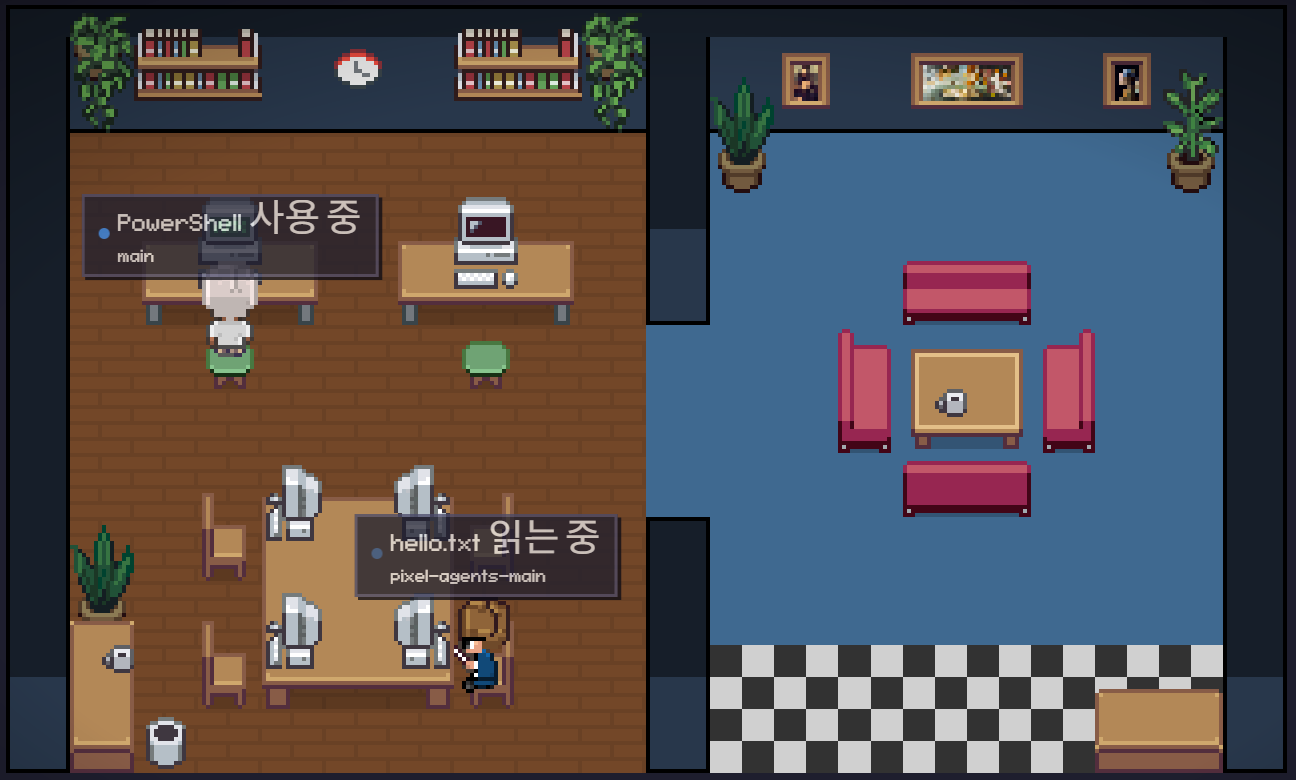
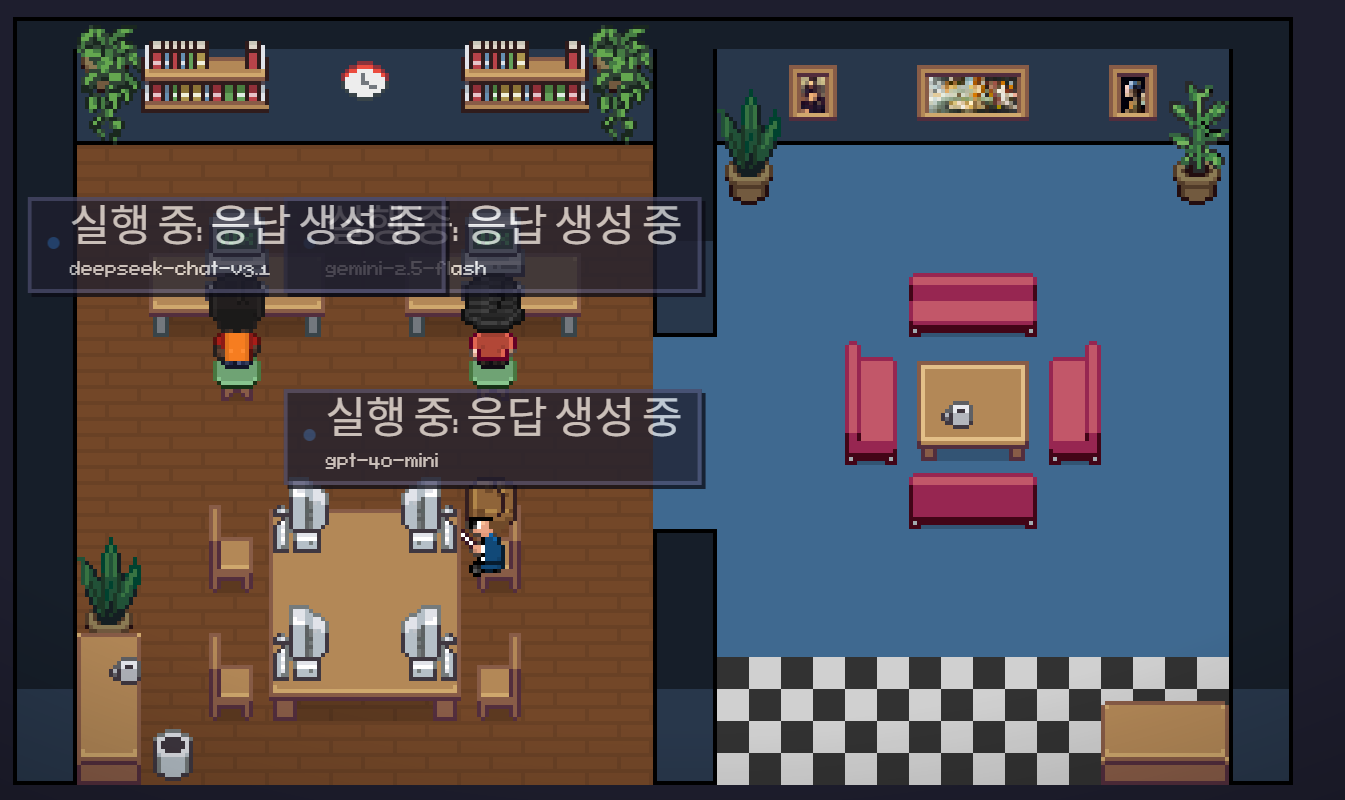
캐릭터에 연결된 모델명 표시 + 실행 화면 캡처 + README 재작성
- run.mjs: 각 모델이 모델명 폴더에서 작업하도록 해 캐릭터 이름이 연결 모델명으로 표시되게 함
- '추론 중' 라벨에 모델명을 끼워넣던 표기 제거(모델명은 캐릭터 이름으로만 정직하게 표시)
- README: 'pixel-agents-openrouter란' 중심으로 재구성, 작업 내역/동작 원리 충실화
- docs/screenshot.png: 세 모델(gpt-4o-mini/gemini-2.5-flash/deepseek-chat-v3.1) 동작 캡처

diff --git a/README.md b/README.md
@@ -1,38 +1,78 @@
-# Pixel Agents — OpenRouter 멀티모델 확장
+# pixel-agents-openrouter
 
-바닐라 **Pixel Agents**는 AI 코딩 에이전트(Claude Code)를 픽셀아트 사무실의 애니메이션 캐릭터로
-보여주는 시각화 도구입니다. 이 포크는 여기에 **OpenRouter의 여러 모델(GPT · Gemini · DeepSeek 등)을
-실제 도구를 사용하는 에이전트로 실행해 오피스에 시각화**하는 기능과 **한국어 라벨**을 더했습니다.
-Pixel Agents 코어/서버 소스는 한 줄도 고치지 않았습니다.
+**OpenRouter의 여러 모델(GPT · Gemini · DeepSeek 등)을 각각 "실제 도구를 사용하는 에이전트"로 실행하고,
+그 활동을 픽셀아트 사무실에 캐릭터로 실시간 시각화**하는 프로젝트입니다. 각 캐릭터는 자기가 연결된
+모델명을 달고, 모델이 실제로 호출한 도구에 따라 움직입니다. 캐릭터 상태 라벨은 한국어로 표시됩니다.
 
-![Pixel Agents 오피스 — 에이전트들이 한국어 라벨과 함께 일하는 모습](docs/screenshot.png)
+바닐라 [Pixel Agents](https://github.com/pixel-agents-hq/pixel-agents)는 **Claude Code 세션만** 시각화하지만,
+이 포크는 거기에 **OpenRouter 멀티모델 시각화 + 한국어화**를 더했습니다. Pixel Agents 코어/서버 소스는
+한 줄도 고치지 않았습니다.
 
-## 바닐라 Pixel Agents란
+![pixel-agents-openrouter — 세 개의 OpenRouter 모델이 각자 모델명을 달고 사무실에서 일하는 모습](docs/screenshot.png)
 
-- AI 에이전트를 픽셀 오피스의 캐릭터로 표현 — 하는 일에 따라 타이핑·읽기·대기 애니메이션을 합니다.
-- **관찰형(observational)** 도구입니다. 스스로 LLM을 호출하지 않고, 에이전트의 활동을 훅/트랜스크립트로
-  받아 그립니다.
-- 오늘 실제로 지원하는 에이전트는 **Claude Code 하나**이며, 다른 도구(Codex·Gemini·Cursor 등)는 로드맵입니다.
-- 원본: [pixel-agents-hq/pixel-agents](https://github.com/pixel-agents-hq/pixel-agents) (MIT).
+*위 화면: `deepseek-chat-v3.1`, `gemini-2.5-flash`, `gpt-4o-mini` 세 모델이 각각 캐릭터로 등장해 동시에 작업 중.*
 
-## 이 포크가 더한 것
+---
 
-- **OpenRouter 멀티모델 시각화** — `.env`에 넣은 모델들을 각각 에이전트로 실행해 오피스에 캐릭터로 등장시킵니다.
-- **실제 tool-use 구동** — 각 모델에게 실제 도구(`list_dir`·`read_file`·`write_file`, 샌드박스 한정)를
-  function calling으로 주고, **모델이 실제로 호출한 도구**가 그대로 캐릭터 활동이 됩니다. 모델마다 도구
-  순서가 달라지고, 각 모델이 실제로 `summary.md`를 작성합니다.
-- **한국어 라벨** — 캐릭터 상태 문구를 한국어로 현지화(`읽는 중`, `작성 중`, `파일 검색 중` 등).
-- **코어 무수정** — 기존 훅 인그레스(`POST /api/hooks/…`)를 재사용해 위 기능을 구현했습니다.
+## pixel-agents-openrouter란
 
-## 어떻게 동작하나
+바닐라 Pixel Agents는 **관찰형 시각화 도구**입니다 — 스스로 LLM을 호출하지 않고, Claude Code가 남기는
+훅(hooks)·트랜스크립트를 받아 에이전트의 활동을 캐릭터로 그립니다. 그래서 "다른 모델을 시각화"하려면,
+**모델을 실행하는 쪽이 그 활동을 이벤트로 서버에 보내주면** 됩니다.
 
-`openrouter-agents/run.mjs`가 각 모델을 실행하면서, 모델의 실제 도구 호출을 pixel-agents 서버로 이벤트로
-전송합니다. 서버는 이를 표준 이벤트로 정규화해 오피스 캐릭터로 렌더링합니다.
+이 프로젝트는 바로 그 다리(bridge)를 만들었습니다: `openrouter-agents/run.mjs`가 `.env`에 적은 모델들을
+각각 하나의 에이전트로 실행하면서, **모델이 실제로 호출한 도구**를 pixel-agents 서버로 전송합니다.
+결과적으로 각 OpenRouter 모델이 사무실의 캐릭터가 되어, 자기 모델명을 달고, 실제로 하는 일에 맞춰
+움직입니다.
+
+## 주요 기능
+
+- **OpenRouter 멀티모델 시각화** — `.env`의 모델 목록만큼 캐릭터가 등장합니다. 각 캐릭터의 이름(자막)은
+  자기가 연결된 모델명(`gpt-4o-mini`, `gemini-2.5-flash`, `deepseek-chat-v3.1` …)입니다.
+- **실제 tool-use 구동(연출 아님)** — 각 모델에게 실제 도구(`list_dir`·`read_file`·`write_file`, 샌드박스
+  한정)를 function calling으로 줍니다. **모델이 실제로 호출한 도구**가 그대로 캐릭터 활동이 되므로,
+  모델마다 도구 순서가 다르고 각 모델이 실제로 `summary.md`를 작성합니다.
+- **한국어 라벨** — 캐릭터 상태 문구를 한국어로 현지화했습니다(`읽는 중`, `작성 중`, `파일 검색 중` 등).
+- **코어 무수정** — pixel-agents 소스는 손대지 않고, 원본이 이미 제공하는 훅 인그레스만 재사용했습니다.
+
+## 동작 원리
 
 ```
-run.mjs (OpenRouter 모델 실행 + 실제 도구 호출을 이벤트로 전송)
-        └─ POST /api/hooks ─→ pixel-agents 서버 ─→ 픽셀 오피스 렌더링
+openrouter-agents/run.mjs
+  ├─ 각 모델을 OpenRouter chat/completions(tools 포함)로 실행하는 에이전트 루프
+  │    · 응답에 tool_calls 가 있으면 → 그 도구를 실제로 실행
+  │    · 모델이 부른 도구를 pixel-agents 이벤트로 매핑 (read_file→Read, write_file→Write, …)
+  └─ POST /api/hooks/claude ─→ pixel-agents 서버 ─→ 표준 이벤트로 정규화 ─→ 픽셀 오피스 렌더링
 ```
+
+- **에이전트 루프**: `SessionStart → PreToolUse(모델이 부른 도구) → 실행 → PostToolUse → … → Stop`.
+  도구 호출 사이(모델 추론 중)에도 캐릭터가 유지되도록 하트비트를 보냅니다.
+- **모델명 표시**: 각 모델은 자기 이름의 작업 폴더(`openrouter-agents/workspace/<모델명>`)에서 파일을
+  다루고, 그 폴더명이 곧 캐릭터의 이름(자막)으로 표시됩니다.
+- **안전**: 도구는 모델별 샌드박스 폴더 안의 파일 읽기/쓰기로 제한했습니다(임의 셸 실행 없음).
+
+## 작업 내역
+
+| 파일 | 내용 |
+|---|---|
+| `openrouter-agents/run.mjs` | **(신규)** OpenRouter 모델을 실제 tool-use 에이전트로 실행하고 활동을 이벤트로 전송하는 브리지. 외부 의존성 0(Node 내장 fetch). |
+| `openrouter-agents/README.md` | **(신규)** 브리지 상세 사용법(한국어). |
+| `.env.example` | OpenRouter 설정 슬롯(`OPENROUTER_API_KEY`, `OPENROUTER_MODELS`) 추가. |
+| `server/src/providers/hook/claude/claude.ts` | `formatToolStatus()` 표시 문구를 한국어로 교체(함수 로직은 그대로). |
+| 캐릭터 스프라이트 | `webview-ui/public/assets/characters/` 커스텀 캐릭터로 교체. |
+
+> pixel-agents의 **코어/서버 로직 자체는 수정하지 않았습니다.** OpenRouter 연동은 전적으로 위 브리지가
+> 원본의 이벤트 인그레스를 사용해 이룬 것입니다.
+
+## 검증
+
+실행 중인 서버에 붙여 엔드투엔드로 확인했습니다.
+
+- `.env`의 모델 수만큼 캐릭터가 생성되고, 각 캐릭터의 이름이 **연결된 모델명**으로 표시됩니다
+  (`gpt-4o-mini` / `gemini-2.5-flash` / `deepseek-chat-v3.1`).
+- 같은 작업을 줘도 **모델마다 실제 도구 호출 순서·횟수가 다릅니다**(예: 어떤 모델은 `notes/` 하위 폴더까지
+  탐색, 어떤 모델은 없는 파일을 열어보고 스스로 방향 수정). 연출이라면 매번 동일하지만 실제이므로 매번 다릅니다.
+- 각 모델이 자기 샌드박스에 실제 `summary.md`를 작성합니다.
 
 ## 설치 및 실행
 
@@ -40,29 +80,37 @@ run.mjs (OpenRouter 모델 실행 + 실제 도구 호출을 이벤트로 전송)
 npm install          # 의존성 설치 (루트 + 워크스페이스)
 npm run build        # dist/ 빌드 (서버 + 웹뷰 + 에셋)
 
-node dist/cli.js --port 3100     # 서버 실행 → 브라우저에서 http://127.0.0.1:3100 열기
+node dist/cli.js --port 3100     # 서버 실행 → 브라우저에서 http://127.0.0.1:3100
 ```
 
-브라우저에서 ⚙️ **Settings → "Always Show Labels"** 를 켜면 캐릭터 위 한국어 라벨이 항상 보입니다.
+브라우저에서 ⚙️ **Settings → "Always Show Labels"** 를 켜면 캐릭터 위 한국어 라벨과 모델명이 항상 보입니다.
 
-OpenRouter 모델을 오피스에 띄우려면, 프로젝트 루트에 `.env`를 만들고(키는 [openrouter.ai/keys](https://openrouter.ai/keys) —
-무료 티어로도 발급 가능):
+OpenRouter 모델을 띄우려면, 프로젝트 루트에 `.env`를 만들고(키는 [openrouter.ai/keys](https://openrouter.ai/keys)
+— 무료 티어로도 발급 가능):
 
 ```
 OPENROUTER_API_KEY=sk-or-v1-...
 OPENROUTER_MODELS=openai/gpt-4o-mini,google/gemini-2.5-flash,deepseek/deepseek-chat-v3.1
 ```
 
-그리고 서버가 켜진 상태에서:
+서버가 켜진 상태에서:
 
 ```bash
 node openrouter-agents/run.mjs
 ```
 
-각 모델이 실제로 도구를 호출하며 오피스에 캐릭터로 등장하고, 콘솔에는 모델이 호출한 도구와 최종 응답이
-출력됩니다. 자세한 사용법은 [`openrouter-agents/README.md`](openrouter-agents/README.md) 참고.
+각 모델이 실제로 도구를 호출하며 오피스에 캐릭터로 등장합니다. 자세한 내용은
+[`openrouter-agents/README.md`](openrouter-agents/README.md) 참고.
+
+## 참고: 바닐라 Pixel Agents
+
+원본 [Pixel Agents](https://github.com/pixel-agents-hq/pixel-agents)는 AI 코딩 에이전트를 픽셀 오피스
+캐릭터로 보여주는 도구로, 오늘 실제로 지원하는 에이전트는 **Claude Code 하나**이며 다른 도구(Codex·Gemini·
+Cursor 등)는 로드맵으로 남아 있습니다. 이 포크는 그 "다른 모델 시각화"의 한 갈래를 OpenRouter로 구현한
+것입니다. 원본 README 전문은 [`README.upstream.md`](README.upstream.md), 상세 아키텍처는
+[`CLAUDE.md`](CLAUDE.md)에 있습니다.
 
 ## 라이선스
 
-MIT — 원저작물 [Pixel Agents](https://github.com/pixel-agents-hq/pixel-agents). 원본 README는
-[`README.upstream.md`](README.upstream.md), 상세 아키텍처는 [`CLAUDE.md`](CLAUDE.md)에 있습니다.
+MIT — 원저작물 [Pixel Agents](https://github.com/pixel-agents-hq/pixel-agents). 캐릭터 스프라이트는
+직접 제작/교체본입니다.